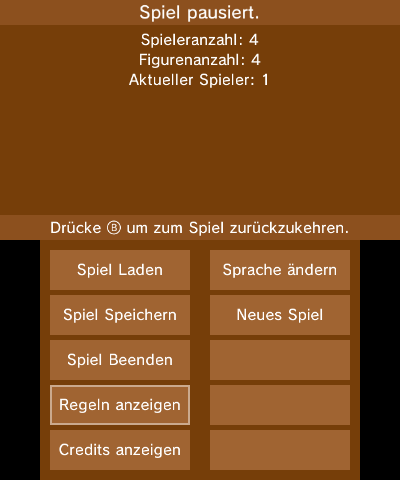
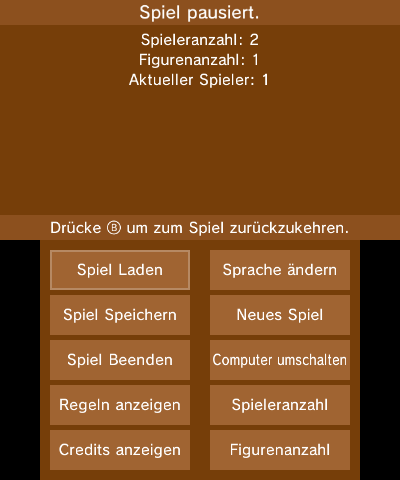
Siehe Beschreibung für mehr.
- [CORE]: Füge `GetAI()` und `SetAI()` hinzu.

- [APP]: Erlaube es, die AI, Die Spieler Anzahl und Figuren Anzahl im Unter-Menü zu verändern.

- [APP]: Ein paar clean ups.

- [APP | DiceOverlay]: Lasse die Würfel Animation des Computer's mit `A` stoppen.

diff --git a/3ds/source/screens/gameScreen.cpp b/3ds/source/screens/gameScreen.cpp
@@ -32,33 +32,6 @@ extern bool exiting;
 extern bool touching(touchPosition touch, Structs::ButtonPos button);
 
 /*
-	Zeichne eine Figur eines Spielers.
-
-	uint8_t player: Der Spieler-Index.
-	int x: Die X-position, wo gezeichnet werden soll.
-	int y: Die Y-Position, wo gezeichnet werden soll.
-*/
-void GameScreen::DrawFigur(uint8_t player, int x, int y) const {
-	switch(player) {
-		case 0:
-			GFX::DrawSprite(sprites_chip_p1_idx, x, y);
-			break;
-
-		case 1:
-			GFX::DrawSprite(sprites_chip_p2_idx, x, y);
-			break;
-
-		case 2:
-			GFX::DrawSprite(sprites_chip_p3_idx, x, y);
-			break;
-
-		case 3:
-			GFX::DrawSprite(sprites_chip_p4_idx, x, y);
-			break;
-	}
-}
-
-/*
 	Zeichne alle Figuren eines Spielers.
 
 	uint8_t player: Der Spieler-Index.
@@ -70,18 +43,18 @@ void GameScreen::DrawPlayer(uint8_t player) const {
 
 			/* 0 --> Startfeld. */
 			if (position == 0) {
-				this->DrawFigur(player,
+				GFX::DrawFigure(player,
 					this->PlayerField[(player * 4) + figur].x,
 					this->PlayerField[(player * 4) + figur].y);
 
 			} else if (position > 0 && position < 41) {
-				this->DrawFigur(player,
+				GFX::DrawFigure(player,
 					this->MainField[GameHelper::PositionConvert(player, position) - 1].x,
 					this->MainField[GameHelper::PositionConvert(player, position) - 1].y);
 
 			/* Falls wir in den Eingangs-Bereich kommen. */
 			} else if (position > 40) {
-				this->DrawFigur(player,
+				GFX::DrawFigure(player,
 					this->EingangField[(player * 4) + (position - 41)].x,
 					this->EingangField[(player * 4) + (position - 41)].y);
 			}
@@ -124,6 +97,12 @@ void GameScreen::DrawSelection(uint8_t selection) const {
 GameScreen::GameScreen() {
 	this->currentGame = std::make_unique<Game>(4, 4);
 	CoreHelper::GenerateSeed();
+
+	const uint8_t pAmount = KBD::SetAmount(4, Lang::get("ENTER_PLAYERAMOUNT"), 2);
+	const uint8_t fAmount = KBD::SetAmount(4, Lang::get("ENTER_FIGUREAMOUNT"), 1);
+	this->currentGame = std::make_unique<Game>(pAmount, fAmount);
+
+	this->currentGame->SetAI(Msg::promptMsg(Lang::get("PLAY_AGAINST_COMPUTER")));
 }
 
 /*
@@ -206,14 +185,18 @@ void GameScreen::DisplaySub(void) const {
 	}
 
 	/* Schaltflächen Text. */
-	Gui::DrawStringCentered(-80, this->subBtn[0].y + 10, 0.6f, TEXT_COLOR, Lang::get("LOAD_GAME"));
-	Gui::DrawStringCentered(-80, this->subBtn[1].y + 10, 0.6f, TEXT_COLOR, Lang::get("SAVE_GAME"));
-	Gui::DrawStringCentered(-80, this->subBtn[2].y + 10, 0.6f, TEXT_COLOR, Lang::get("EXIT_GAME"));
-	Gui::DrawStringCentered(-80, this->subBtn[3].y + 10, 0.6f, TEXT_COLOR, Lang::get("SHOW_RULES"));
-	Gui::DrawStringCentered(-80, this->subBtn[4].y + 10, 0.6f, TEXT_COLOR, Lang::get("SHOW_CREDITS"));
+	Gui::DrawStringCentered(-80, this->subBtn[0].y + 10, 0.6f, TEXT_COLOR, Lang::get("LOAD_GAME"), 135);
+	Gui::DrawStringCentered(-80, this->subBtn[1].y + 10, 0.6f, TEXT_COLOR, Lang::get("SAVE_GAME"), 135);
+	Gui::DrawStringCentered(-80, this->subBtn[2].y + 10, 0.6f, TEXT_COLOR, Lang::get("EXIT_GAME"), 135);
+	Gui::DrawStringCentered(-80, this->subBtn[3].y + 10, 0.6f, TEXT_COLOR, Lang::get("SHOW_RULES"), 135);
+	Gui::DrawStringCentered(-80, this->subBtn[4].y + 10, 0.6f, TEXT_COLOR, Lang::get("SHOW_CREDITS"), 135);
 
-	Gui::DrawStringCentered(80, this->subBtn[5].y + 10, 0.6f, TEXT_COLOR, Lang::get("CHANGE_LANGUAGE"));
-	Gui::DrawStringCentered(80, this->subBtn[6].y + 10, 0.6f, TEXT_COLOR, Lang::get("NEW_GAME"));
+	Gui::DrawStringCentered(80, this->subBtn[5].y + 10, 0.6f, TEXT_COLOR, Lang::get("CHANGE_LANGUAGE"), 135);
+	Gui::DrawStringCentered(80, this->subBtn[6].y + 10, 0.6f, TEXT_COLOR, Lang::get("NEW_GAME"), 135);
+	Gui::DrawStringCentered(80, this->subBtn[7].y + 10, 0.6f, TEXT_COLOR, Lang::get("TOGGLE_AI"), 135);
+	Gui::DrawStringCentered(80, this->subBtn[8].y + 10, 0.6f, TEXT_COLOR, Lang::get("PLAYER_AMOUNT"), 135);
+	Gui::DrawStringCentered(80, this->subBtn[9].y + 10, 0.6f, TEXT_COLOR, Lang::get("FIGURE_AMOUNT"), 135);
+
 	if (fadeAlpha > 0) Gui::Draw_Rect(0, 0, 320, 240, C2D_Color32(0, 0, 0, fadeAlpha));
 }
 
@@ -234,6 +217,18 @@ void GameScreen::Draw(void) const {
 	Die HauptLogik des Spiel-Screen's.
 */
 void GameScreen::Logic(u32 hDown, u32 hHeld, touchPosition touch) {
+	/* Falls das Spiel vorbei ist. */
+	if (this->gameOver) {
+		if (Msg::promptMsg(Lang::get("NEXT_GAME"))) {
+			Msg::DisplayMsg(Lang::get("PREPARE_GAME"));
+			this->currentGame->InitNewGame(this->currentGame->GetPlayerAmount(), this->currentGame->GetFigurAmount());
+			this->gameOver = false;
+
+		} else {
+			exiting = true;
+		}
+	}
+
 	if (hDown & KEY_START) this->isSub = true;
 
 	if (this->isSub) {
@@ -331,6 +326,27 @@ void GameScreen::SubLogic(u32 hDown, u32 hHeld, touchPosition touch) {
 					this->isSub = false;
 				}
 				break;
+
+				case 7:
+					/* Computer De-/Aktivieren. */
+					this->currentGame->SetAI(Msg::promptMsg(Lang::get("PLAY_AGAINST_COMPUTER")));
+					break;
+
+				case 8:
+					/* Spieleranzahl verändern. */
+					if (Msg::promptMsg(Lang::get("PLAYERAMOUNT_PRMPT"))) {
+						this->currentGame->InitNewGame((uint8_t)KBD::SetAmount(4, Lang::get("ENTER_PLAYERAMOUNT"), this->currentGame->GetPlayerAmount()), this->currentGame->GetFigurAmount());
+						this->isSub = false;
+					}
+					break;
+
+				case 9:
+					/* Figurenanzahl verändern. */
+					if (Msg::promptMsg(Lang::get("FIGUREAMOUNT_PRMPT"))) {
+						this->currentGame->InitNewGame(this->currentGame->GetPlayerAmount(), (uint8_t)KBD::SetAmount(4, Lang::get("ENTER_FIGURERAMOUNT"), this->currentGame->GetFigurAmount()));
+						this->isSub = false;
+					}
+					break;
 		}
 	}
 
@@ -387,6 +403,24 @@ void GameScreen::SubLogic(u32 hDown, u32 hHeld, touchPosition touch) {
 				this->awaitFigurSelect = false;
 				this->isSub = false;
 			}
+
+		} else if (touching(touch, this->subBtn[7])) {
+			/* Computer De-/Aktivieren. */
+			this->currentGame->SetAI(Msg::promptMsg(Lang::get("PLAY_AGAINST_COMPUTER")));
+
+		} else if (touching(touch, this->subBtn[8])) {
+			/* Spieleranzahl verändern. */
+			if (Msg::promptMsg(Lang::get("PLAYERAMOUNT_PRMPT"))) {
+				this->currentGame->InitNewGame((uint8_t)KBD::SetAmount(4, Lang::get("ENTER_PLAYERAMOUNT"), this->currentGame->GetPlayerAmount()), this->currentGame->GetFigurAmount());
+				this->isSub = false;
+			}
+
+		} else if (touching(touch, this->subBtn[9])) {
+			/* Figurenanzahl verändern. */
+			if (Msg::promptMsg(Lang::get("FIGUREAMOUNT_PRMPT"))) {
+				this->currentGame->InitNewGame(this->currentGame->GetPlayerAmount(), (uint8_t)KBD::SetAmount(4, Lang::get("ENTER_FIGURERAMOUNT"), this->currentGame->GetFigurAmount()));
+				this->isSub = false;
+			}
 		}
 	}
 }
@@ -397,7 +431,7 @@ void GameScreen::SubLogic(u32 hDown, u32 hHeld, touchPosition touch) {
 	Rolle den Würfel.
 */
 void GameScreen::RoundLogic(u32 hDown, u32 hHeld) {
-	if (this->currentGame->GetCurrentPlayer() != 0) {
+	if (this->currentGame->GetAI() && this->currentGame->GetCurrentPlayer() != 0) {
 		this->AIHandle();
 
 	} else {
@@ -519,7 +553,7 @@ void GameScreen::FigureSelection(u32 hDown, u32 hHeld) {
 
 		if (GameHelper::HasFinished(this->currentGame, this->currentGame->GetCurrentPlayer())) {
 			Msg::DisplayWaitMsg("Spieler " + std::to_string(this->currentGame->GetCurrentPlayer() + 1) + " hat gewonnen!");
-			exiting = true;
+			this->gameOver = true;
 			return;
 		}
 
@@ -672,7 +706,7 @@ void GameScreen::AIHandle() {
 
 		if (GameHelper::HasFinished(this->currentGame, this->currentGame->GetCurrentPlayer())) {
 			Msg::DisplayWaitMsg("Spieler " + std::to_string(this->currentGame->GetCurrentPlayer() + 1) + " hat gewonnen!");
-			exiting = true;
+			this->gameOver = true;
 			return;
 		}
 

diff --git a/3ds/source/ui/gfx.cpp b/3ds/source/ui/gfx.cpp
@@ -64,8 +64,24 @@ void GFX::DrawSprite(int index, int x, int y, float ScaleX, float ScaleY) {
 	int x: Die X Position der Figur.
 	int y: Die Y Position der Figur.
 */
-void GFX::DrawPlayer(uint8_t player, int x, int y) {
-	GFX::DrawSprite(sprites_chip_p1_idx + player, x, y);
+void GFX::DrawFigure(uint8_t player, int x, int y) {
+	switch(player) {
+		case 0:
+			GFX::DrawSprite(sprites_chip_p1_idx, x, y);
+			break;
+
+		case 1:
+			GFX::DrawSprite(sprites_chip_p2_idx, x, y);
+			break;
+
+		case 2:
+			GFX::DrawSprite(sprites_chip_p3_idx, x, y);
+			break;
+
+		case 3:
+			GFX::DrawSprite(sprites_chip_p4_idx, x, y);
+			break;
+	}
 }
 
 /*

diff --git a/common/include/core/game.hpp b/common/include/core/game.hpp
@@ -99,6 +99,10 @@ public:
 
 	/* Wiedergebe ob das Spiel gültig ist. */
 	bool validLoaded() const { return this->ValidGame; };
+
+	/* Computer part. */
+	bool GetAI() const { return this->UseAI; }
+	void SetAI(bool AI) { this->UseAI = AI; }
 private:
 	std::unique_ptr<Player> Players[4];
 
@@ -106,7 +110,7 @@ private:
 		Variablen für das Spiel.
 	*/
 	uint8_t CurrentPlayer = 0, FigurAmount = 1, PlayerAmount = 2;
-	bool ValidGame = false;
+	bool ValidGame = false, UseAI = false;
 
 	std::unique_ptr<uint8_t[]> GameData = nullptr; // Spiel-Daten Buffer.
 };

diff --git a/3ds/include/ui/gfx.hpp b/3ds/include/ui/gfx.hpp
@@ -57,7 +57,7 @@ namespace GFX {
 	/* Spritezeug. */
 	void DrawSprite(int index, int x, int y, float ScaleX = 1, float ScaleY = 1);
 
-	void DrawPlayer(uint8_t player, int x, int y);
+	void DrawFigure(uint8_t player, int x, int y);
 	void DrawPlayerSelector(uint8_t player, int x, int y);
 
 	void Dice(uint8_t ergebnis, int x, int y);

diff --git a/3ds/include/screens/gameScreen.hpp b/3ds/include/screens/gameScreen.hpp
@@ -43,7 +43,6 @@ private:
 	void DrawPlayers() const;
 	void DrawSelection(uint8_t selection) const;
 	void DrawPlayer(uint8_t player) const;
-	void DrawFigur(uint8_t player, int x, int y) const;
 	void DisplaySub(void) const;
 	void DisplayGame(void) const;
 

diff --git a/3ds/source/overlays/DiceRollOverlay.cpp b/3ds/source/overlays/DiceRollOverlay.cpp
@@ -76,6 +76,9 @@ uint8_t Overlays::RollDiceOverlay(bool AIRoll) {
 			}
 
 		} else {
+			hidScanInput();
+			if (hidKeysDown() & KEY_A) doOut = true; // Lasse die Animation mit A überspringen.
+
 			/* Würfel-Teil. */
 			if (diceDl > 0) {
 				diceDl--;

diff --git a/3ds/include/common.hpp b/3ds/include/common.hpp
@@ -29,6 +29,7 @@
 
 /* Hier sind alle notwendigen Headers gelistet. */
 #include "gfx.hpp"
+#include "kbd.hpp"
 #include "lang.hpp"
 #include "msg.hpp"
 #include "overlay.hpp"
